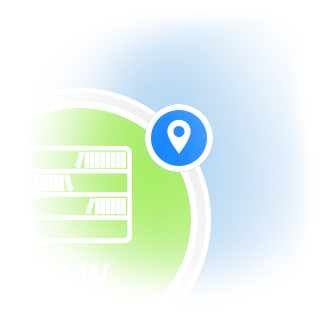
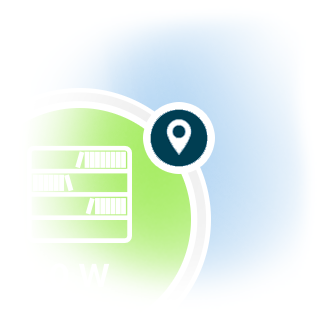
Fixed minor bugs in persistor, fixed border of train room circle, fixed error overlay repeating, fixed error overlay for guest and members

Changed region(s): [[0.4375, 0.3125, 0.6875, 0.5625]]

diff --git a/js/views/deviceViews/elements/DeviceError.tsx b/js/views/deviceViews/elements/DeviceError.tsx
@@ -18,9 +18,35 @@ import {IconButton} from "../../components/IconButton";
 import {ErrorContent} from "../../content/ErrorContent";
 import {deviceStyles} from "../DeviceOverview";
 import {StoneUtil} from "../../../util/StoneUtil";
+import {Permissions} from "../../../backgroundProcesses/PermissionManager";
 
 
 export class DeviceError extends Component<any, any> {
+
+  _getAction(stone) {
+    if (Permissions.inSphere(this.props.sphereId).canClearErrors) {
+      return (
+        <TouchableOpacity
+          onPress={() => {
+            StoneUtil.clearErrors(this.props.sphereId, this.props.stoneId, stone, this.props.store);
+          }}
+          style={[styles.centered, {
+            width: 0.6 * screenWidth,
+            height: 50,
+            borderRadius: 25,
+            borderWidth: 3,
+            borderColor: colors.red.hex,
+            backgroundColor: colors.white.hex
+          }]}>
+          <Text style={{fontSize: 16, fontWeight: 'bold', color: colors.red.hex}}>{"Reset Error"}</Text>
+        </TouchableOpacity>
+      )
+    }
+    else {
+      return <Text style={{fontSize: 16, fontWeight: 'bold', color: colors.red.hex, textAlign:'center'}}>{"Notify an admin of your Sphere to resolve this error."}</Text>
+    }
+  }
+
   render() {
     const store = this.props.store;
     const state = store.getState();
@@ -34,25 +60,12 @@ export class DeviceError extends Component<any, any> {
           size={0.15*screenHeight}
           color="#fff"
           buttonStyle={{width: 0.2*screenHeight, height: 0.2*screenHeight, backgroundColor:colors.red.hex, borderRadius: 0.03*screenHeight}}
-          style={{position:'relative',}}
+          style={{position:'relative'}}
         />
         <View style={{flex:1}} />
         <Text style={deviceStyles.errorText}>{ErrorContent.getTextDescription(2, stone.errors)}</Text>
         <View style={{flex:1}} />
-        <TouchableOpacity
-          onPress={() => {
-            StoneUtil.clearErrors(this.props.sphereId, this.props.stoneId, stone, store);
-          }}
-          style={[styles.centered, {
-            width: 0.6 * screenWidth,
-            height: 50,
-            borderRadius: 25,
-            borderWidth: 3,
-            borderColor: colors.red.hex,
-            backgroundColor: colors.white.hex
-          }]}>
-          <Text style={{fontSize: 16, fontWeight: 'bold', color: colors.red.hex}}>{"Reset Error"}</Text>
-        </TouchableOpacity>
+        { this._getAction(stone) }
         <View style={{flex:1}} />
       </View>
     )

diff --git a/js/native/advertisements/StoneEntity.ts b/js/native/advertisements/StoneEntity.ts
@@ -9,6 +9,7 @@ import { StoneMeshTracker } from "./StoneMeshTracker";
 import { StoneBehaviour }   from "./StoneBehaviour";
 import { StoneStoreManager } from "./StoneStoreManager";
 import {generateFakeAdvertisement} from "./Debug";
+import {Permissions} from "../../backgroundProcesses/PermissionManager";
 
 let RSSI_TIMEOUT = 5000;
 
@@ -675,6 +676,20 @@ export class StoneEntity {
       if (advertisement.serviceData.hasError === true) {
         LOGi.advertisements("StoneEntity: GOT ERROR", advertisement.serviceData);
         if (advertisement.serviceData.errorMode) {
+          // only mark as error is it is not already marked as error
+          if (stone.errors.hasError === false) {
+            this.store.dispatch({
+              type: 'UPDATE_STONE_ERRORS',
+              sphereId: this.sphereId,
+              stoneId: this.stoneId,
+              data: { hasError: true }
+            });
+            if (Permissions.inSphere(this.sphereId).canClearErrors) {
+              eventBus.emit('showErrorOverlay', {stoneId: this.stoneId, sphereId: this.sphereId});
+            }
+          }
+
+          // store errors in the db
           if (this._errorsHaveChanged(stone.errors, advertisement.serviceData.errors)) {
             this.store.dispatch({
               type: 'UPDATE_STONE_ERRORS',
@@ -689,19 +704,9 @@ export class StoneEntity {
                 dimmerOffFailure:  advertisement.serviceData.errors.dimmerOffFailure,
               }
             });
-            eventBus.emit('showErrorOverlay', {stoneId: this.stoneId, sphereId: this.sphereId});
-          }
-        }
-        else {
-          // only mark as error is it is not already marked as error
-          if (stone.errors.hasError === false) {
-            this.store.dispatch({
-              type: 'UPDATE_STONE_ERRORS',
-              sphereId: this.sphereId,
-              stoneId: this.stoneId,
-              data: { hasError: true }
-            });
-            eventBus.emit('showErrorOverlay', {stoneId: this.stoneId, sphereId: this.sphereId});
+            if (Permissions.inSphere(this.sphereId).canClearErrors) {
+              eventBus.emit('updateErrorOverlay', {stoneId: this.stoneId, sphereId: this.sphereId});
+            }
           }
         }
       }

diff --git a/js/views/components/RoomCircle.tsx b/js/views/components/RoomCircle.tsx
@@ -19,6 +19,7 @@ import { Svg, Circle } from 'react-native-svg';
 import {DfuStateHandler} from "../../native/firmware/DfuStateHandler";
 import {MapProvider} from "../../backgroundProcesses/MapProvider";
 import {AnimatedCircle} from "./animated/AnimatedCircle";
+import {IconCircle} from "./IconCircle";
 
 let ALERT_TYPES = {
   fingerprintNeeded : 'fingerPrintNeeded'
@@ -379,14 +380,8 @@ class RoomCircleClass extends Component<any, any> {
   _getAlertIcon() {
     let alertSize = this.outerDiameter*0.30;
     return (
-      <View style={[styles.centered, {
-        width:alertSize,
-        height:alertSize, borderRadius:alertSize*0.5,
-        borderWidth:3,
-        borderColor:'#fff',
-        position:'absolute',
-        top: 0, left: this.outerDiameter - alertSize, backgroundColor:colors.iosBlue.hex}]}>
-        <Icon name="c1-locationPin1" color="#fff" size={17} style={{backgroundColor:'transparent'}} />
+      <View style={{position:'absolute', top: 0, left: this.outerDiameter - alertSize}}>
+        <IconCircle icon="c1-locationPin1" color="#fff" size={alertSize} backgroundColor={colors.csBlue.hex} borderWidth={3} />
       </View>
     )
   }

diff --git a/js/router/store/Persistor.ts b/js/router/store/Persistor.ts
@@ -661,9 +661,16 @@ export class Persistor {
             if (!keyRemovalMap[checkKey]) {
               // if the key is larger than the parent key and the parentKey prefixes this key
               if (checkKeyWithoutHistoryTag.length > keyLength && checkKey.substr(0, keyLength) === candidate) {
-                keyRemovals.push(checkKey);
-                keyRemovalMap[checkKey] = true;
-                LOGd.store("Persistor: Added field to be removed due to cascade.", checkKey);
+                // check if these keys are on the same level before deleting one of them.
+                if (checkKeyWithoutHistoryTag.match(/(\.)/g).length !== candidate.match(/(\.)/g).length) {
+                  keyRemovals.push(checkKey);
+                  keyRemovalMap[checkKey] = true;
+                  LOGd.store("Persistor: Added field to be removed due to cascade.", checkKey);
+                }
+                else {
+                  LOGd.store("Persistor: SKIPPING cascaded field that did not pass the level check.");
+                }
+
               }
             }
           }

diff --git a/js/router/store/PersistorUtil.ts b/js/router/store/PersistorUtil.ts
@@ -67,15 +67,18 @@ export const PersistorUtil = {
     // get parent keys out of this list because they will destroy the pointer tree
     let illegalKeys = [];
     let filteredUserKeys = [];
-    for (let i = 0; i < userKeys.length - 1; i++) {
+    for (let i = 0; i < userKeys.length; i++) {
       let found = false;
       let checkKey = PersistorUtil.stripHistoryTag(userKeys[i].key);
       for (let j = i + 1; j < userKeys.length; j++) {
         let candidate = userKeys[j].key;
 
         if (candidate.substr(0, checkKey.length) === checkKey) {
-          found = true;
-          break;
+          // check if these keys are on the same level before marking one of them illegal
+          if (candidate.match(/(\.)/g).length !== checkKey.match(/(\.)/g).length) {
+            found = true;
+            break;
+          }
         }
       }
       if (!found) {

diff --git a/js/backgroundProcesses/Permissions.ts b/js/backgroundProcesses/Permissions.ts
@@ -26,6 +26,7 @@ export class PermissionBase {
   canChangeAppliance      = false; // a or m
   editAppliance           = false; // a
   removeAppliance         = false; // a
+  canClearErrors          = false; // a
 
   editSphere              = false; // a
   manageUsers             = false; // a or m
@@ -130,6 +131,7 @@ export class PermissionClass extends PermissionBase {
         this.removeCrownstone        = true; // admin
         this.editAppliance           = true; // admin
         this.removeAppliance         = true; // admin
+        this.canClearErrors          = true; // admin
 
         this.editSphere              = true; // admin
         this.deleteSphere            = true; // admin

diff --git a/js/views/components/editComponents/TextEditInput.tsx b/js/views/components/editComponents/TextEditInput.tsx
@@ -18,7 +18,7 @@ export class TextEditInput extends Component<any, any> {
   constructor(props) {
     super(props);
     this.initialized = false;
-    this.blurValue = null;
+    this.blurValue = undefined;
     this.isInFocus = false;
     this.refName = (Math.random() * 1e9).toString(36);
 
@@ -49,7 +49,7 @@ export class TextEditInput extends Component<any, any> {
   _focus() {
     this.isInFocus   = true;
     this.initialized = true;
-    this.blurValue   = null;
+    this.blurValue   = undefined;
     if (!this.props.autoFocus) {
       (this.refs[this.refName] as any).measure((fx, fy, width, height, px, py) => {
         eventBus.emit("focus", py);

diff --git a/js/views/startupViews/Login.tsx b/js/views/startupViews/Login.tsx
@@ -228,6 +228,7 @@ export class Login extends Component<any, any> {
             <TouchableHighlight style={{borderRadius:20, height:40, width:screenWidth*0.6, justifyContent:'center', alignItems:'center'}} onPress={this.resetPopup.bind(this)}>
             <Text style={{color: '#93cfff'}}>Forgot Password?</Text></TouchableHighlight>
             <LoginButton loginCallback={() => {this.attemptLogin()}} />
+            <View style={{flex: 1, width:screenWidth}} />
           </View>
         </ScrollView>
       </Background>

diff --git a/js/views/overlays/ErrorOverlay.tsx b/js/views/overlays/ErrorOverlay.tsx
@@ -46,6 +46,14 @@ export class ErrorOverlay extends Component<any, any> {
       }
     }));
 
+    this.unsubscribe.push(eventBus.on("updateErrorOverlay", (data) => { // { stoneId : stoneId, sphereId: sphereId }
+      if (this.state.visible === true) {
+        this.setState({
+          stoneId: data.stoneId,
+          sphereId: data.sphereId,
+        });
+      }
+    }));
   }
 
   componentWillUnmount() {
